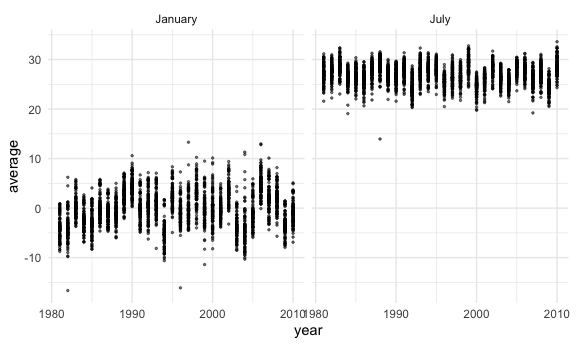
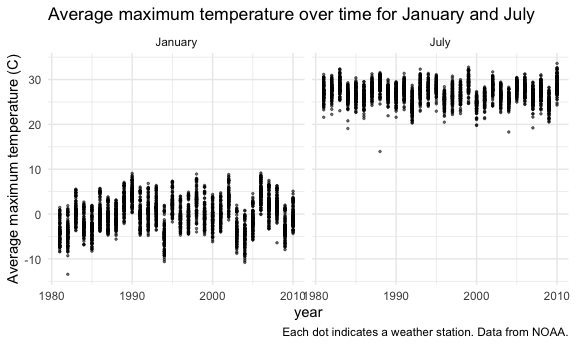
finalized plots, cleaned document text

diff --git a/hw3.md b/hw3.md
@@ -180,68 +180,80 @@ The following code makes a table, aggregated by total activity per day.
 
 ``` r
 accel_df %>% 
-  group_by(day_id, day) %>% 
+  group_by(day, day_id) %>% 
   summarize(
     total_activity = sum(activity_count)
   ) %>% 
-  arrange(desc(total_activity)) %>% 
+  pivot_wider(
+    names_from = "day",
+    values_from = "total_activity"
+  ) %>% 
   knitr::kable(digits = 1)
 ```
 
-| day\_id | day       | total\_activity |
-| ------: | :-------- | --------------: |
-|      16 | Monday    |        685910.0 |
-|       4 | Sunday    |        631105.0 |
-|      29 | Friday    |        620860.0 |
-|      10 | Saturday  |        607175.0 |
-|       8 | Friday    |        568839.0 |
-|      33 | Thursday  |        549658.0 |
-|       1 | Friday    |        480542.6 |
-|      12 | Thursday  |        474048.0 |
-|      21 | Wednesday |        468869.0 |
-|      15 | Friday    |        467420.0 |
-|      18 | Sunday    |        467052.0 |
-|      35 | Wednesday |        445366.0 |
-|      14 | Wednesday |        440962.0 |
-|      28 | Wednesday |        434460.0 |
-|      13 | Tuesday   |        423245.0 |
-|      11 | Sunday    |        422018.0 |
-|      23 | Monday    |        409450.0 |
-|      30 | Monday    |        389080.0 |
-|      17 | Saturday  |        382928.0 |
-|      20 | Tuesday   |        381507.0 |
-|       3 | Saturday  |        376254.0 |
-|      19 | Thursday  |        371230.0 |
-|      34 | Tuesday   |        367824.0 |
-|       5 | Thursday  |        355923.6 |
-|      26 | Thursday  |        340291.0 |
-|       7 | Wednesday |        340115.0 |
-|      27 | Tuesday   |        319568.0 |
-|       6 | Tuesday   |        307094.2 |
-|       9 | Monday    |        295431.0 |
-|      25 | Sunday    |        260617.0 |
-|      22 | Friday    |        154049.0 |
-|      32 | Sunday    |        138421.0 |
-|       2 | Monday    |         78828.1 |
-|      24 | Saturday  |          1440.0 |
-|      31 | Saturday  |          1440.0 |
+| day\_id |   Monday |  Tuesday | Wednesday | Thursday |   Friday | Saturday | Sunday |
+| ------: | -------: | -------: | --------: | -------: | -------: | -------: | -----: |
+|       2 |  78828.1 |       NA |        NA |       NA |       NA |       NA |     NA |
+|       9 | 295431.0 |       NA |        NA |       NA |       NA |       NA |     NA |
+|      16 | 685910.0 |       NA |        NA |       NA |       NA |       NA |     NA |
+|      23 | 409450.0 |       NA |        NA |       NA |       NA |       NA |     NA |
+|      30 | 389080.0 |       NA |        NA |       NA |       NA |       NA |     NA |
+|       6 |       NA | 307094.2 |        NA |       NA |       NA |       NA |     NA |
+|      13 |       NA | 423245.0 |        NA |       NA |       NA |       NA |     NA |
+|      20 |       NA | 381507.0 |        NA |       NA |       NA |       NA |     NA |
+|      27 |       NA | 319568.0 |        NA |       NA |       NA |       NA |     NA |
+|      34 |       NA | 367824.0 |        NA |       NA |       NA |       NA |     NA |
+|       7 |       NA |       NA |    340115 |       NA |       NA |       NA |     NA |
+|      14 |       NA |       NA |    440962 |       NA |       NA |       NA |     NA |
+|      21 |       NA |       NA |    468869 |       NA |       NA |       NA |     NA |
+|      28 |       NA |       NA |    434460 |       NA |       NA |       NA |     NA |
+|      35 |       NA |       NA |    445366 |       NA |       NA |       NA |     NA |
+|       5 |       NA |       NA |        NA | 355923.6 |       NA |       NA |     NA |
+|      12 |       NA |       NA |        NA | 474048.0 |       NA |       NA |     NA |
+|      19 |       NA |       NA |        NA | 371230.0 |       NA |       NA |     NA |
+|      26 |       NA |       NA |        NA | 340291.0 |       NA |       NA |     NA |
+|      33 |       NA |       NA |        NA | 549658.0 |       NA |       NA |     NA |
+|       1 |       NA |       NA |        NA |       NA | 480542.6 |       NA |     NA |
+|       8 |       NA |       NA |        NA |       NA | 568839.0 |       NA |     NA |
+|      15 |       NA |       NA |        NA |       NA | 467420.0 |       NA |     NA |
+|      22 |       NA |       NA |        NA |       NA | 154049.0 |       NA |     NA |
+|      29 |       NA |       NA |        NA |       NA | 620860.0 |       NA |     NA |
+|       3 |       NA |       NA |        NA |       NA |       NA |   376254 |     NA |
+|      10 |       NA |       NA |        NA |       NA |       NA |   607175 |     NA |
+|      17 |       NA |       NA |        NA |       NA |       NA |   382928 |     NA |
+|      24 |       NA |       NA |        NA |       NA |       NA |     1440 |     NA |
+|      31 |       NA |       NA |        NA |       NA |       NA |     1440 |     NA |
+|       4 |       NA |       NA |        NA |       NA |       NA |       NA | 631105 |
+|      11 |       NA |       NA |        NA |       NA |       NA |       NA | 422018 |
+|      18 |       NA |       NA |        NA |       NA |       NA |       NA | 467052 |
+|      25 |       NA |       NA |        NA |       NA |       NA |       NA | 260617 |
+|      32 |       NA |       NA |        NA |       NA |       NA |       NA | 138421 |
 
-It seems that the patient is the least active on Saturdays, and the most
-active on Fridays.
+It seems that the patient is the least active on Saturdays, particularly
+in the last two weeks. The patient seems the most active on Fridays, and
+potentially on Mondays. Certain days seem more consistent related to
+activity level than others (such as Tuesdays, Wednesdays and Thursdays).
 
 ``` r
 accel_df %>% 
-  group_by(day_id, day) %>% 
   ggplot(aes(x = minute, y = activity_count, color = day)) +
-  geom_line(alpha = 0.5) +
-  geom_smooth()
+  geom_smooth(se = FALSE) +
+  labs(
+    title = "Activity count over time of day",
+    x = "Minutes",
+    y = "Activity",
+    caption = "Data from patient accelerometer."
+    )
 ```
 
 <img src="hw3_files/figure-gfm/unnamed-chunk-6-1.png" width="90%" />
 
 It seems that the patient is active more during the day on Sundays, and
 more active in the evening on Fridays. The time at which the patient is
-most active depends on the day.
+most active depends on the day. The patient also seems to be more active
+during the week than on the weekend and more active at certain points in
+the day. There is a peak on Sundays around minute 500, and on Fridays at
+around minute 1250.
 
 ## Problem 3: NY NOAA
 
@@ -251,13 +263,14 @@ The following code loads in the NY NOAA dataset.
 data("ny_noaa")
 ```
 
+#### Cleaning and tidying
+
 The following code cleans and tidies the data.
 
 ``` r
 noaa_clean = 
   ny_noaa %>% 
   janitor::clean_names() %>% 
-  drop_na() %>% 
   separate(
     date,
     sep = "-",
@@ -273,6 +286,21 @@ noaa_clean =
   )
 ```
 
+The NOAA dataset is from the National Climactic Data Center, and
+includes variables id, year, month, day, prcp, snow, snwd, tmax, tmin.
+There are 9 columns and 2595176 rows in this dataset. Observations
+relate to climate measures of various weather stations.
+
+The time period of this data ranges from 1981 to 2010. Ranges of climate
+variables are from: 0 to 2286 for precipitation (mm); -13 to 10160 for
+snowfall (mm); 0 to 9195 for snow depth (mm);-59.4 to 60 for minimum
+temperatures (C); and, -38.9 to 60 for maximum temperatures (C).
+
+There are 3387623 total missing observations, which is a large amount of
+missingness for this dataset.
+
+#### Common snowfall
+
 The following code assesses the most commonly observed values for
 snowfall.
 
@@ -282,25 +310,15 @@ noaa_clean %>%
   arrange(desc(n))
 ```
 
-    ## # A tibble: 248 x 2
-    ##     snow       n
-    ##    <int>   <int>
-    ##  1     0 1112758
-    ##  2    25   15809
-    ##  3    13   12460
-    ##  4    51    9252
-    ##  5     5    5669
-    ##  6     8    5380
-    ##  7    76    5296
-    ##  8     3    5276
-    ##  9    38    5050
-    ## 10   102    3386
-    ## # … with 238 more rows
+The most common observed value for snowfall is 0 mm of snowfall. This
+could suggest either seasonality of snowfall, or that some weather
+stations are located in areas that are less likely to have snowfall
+compared to others.
 
-The most common observed value for snowfall is 0 mm of snowfall. The
-second most common value for snowfall is 25mm. This could suggest either
-seasonality of snowfall, or that some weather stations are located in
-areas that are less likely to have snowfall compared to others.
+The second most common value is “NA”, which is expected given the large
+amount of missingness observed in the dataset.
+
+#### Two-panel max temperature month plot
 
 The following code makes a two-panel plot showing the average max
 temperature in January and July.
@@ -323,19 +341,23 @@ noaa_month %>%
   filter(month_name %in% c("January", "July")) %>% 
   ggplot(aes(x = year, y = average)) +
   geom_point(alpha = 0.5, size = 0.5) +
-  facet_grid(. ~ month_name)
+  facet_grid(. ~ month_name) +
+  labs(
+    title = "Average maximum temperature over time for January and July",
+    y = "Average maximum temperature (C)",
+    caption = "Each dot indicates a weather station. Data from NOAA."
+  )
 ```
-
-    ## `summarise()` regrouping output by 'id', 'year' (override with `.groups` argument)
 
 <img src="hw3_files/figure-gfm/unnamed-chunk-10-1.png" width="90%" />
 
-On average, the maximum temperatures in January are lower than they are
-in July. It seems that there are some discernible outliers, where the
-max temperature in January is much higher than the average. There are
-also certain outliers that are much colder in January. Similarly,there
-is one outlier which is much colder in July than the rest of the
-temperatures.
+In general, the average maximum temperatures in January are lower than
+they are in July. It seems that there is one discernable outlier in
+January in 1981, where the temperature is very cold. There seem to be
+more outliers in July than in January. July outliers suggest abnormally
+cold temperatures.
+
+#### Two-panel tmax/tmin and snowfall distribution plot
 
 Making a two-panel plot showing (i) tmax and tmin and (ii) plot showing
 the distribution of snowfall values greater than 0 and less than 100
@@ -347,7 +369,12 @@ tmax_tmin_plot =
   select(tmax, tmin) %>% 
   ggplot(aes(x = tmax, y = tmin)) +
   geom_hex() +
-  theme(legend.position = "none")
+  theme(legend.position = "none") +
+  labs(
+    x = "Maximum temperature (C)",
+    y = "Minimum temperature (C)",
+    title = "Maximum versus minimum temperature (C)"
+  )
 
 snow_dens_plot = 
   noaa_clean %>% 
@@ -355,13 +382,16 @@ snow_dens_plot =
     snow < 100,
     snow > 0
   ) %>% 
-  ggplot(aes(x = year, y = snow)) +
-  geom_smooth() +
-  theme(legend.position = "none")
+  ggplot(aes(group = year, x = year, y = snow)) +
+  geom_boxplot() +
+  theme(legend.position = "none") +
+  labs(
+    x = "Year",
+    y = "Snowfall (mm)",
+    title = "Distribution of snowfall by year"
+  )
 
-tmax_tmin_plot + snow_dens_plot
+tmax_tmin_plot / snow_dens_plot
 ```
-
-    ## `geom_smooth()` using method = 'gam' and formula 'y ~ s(x, bs = "cs")'
 
 <img src="hw3_files/figure-gfm/unnamed-chunk-11-1.png" width="90%" />
